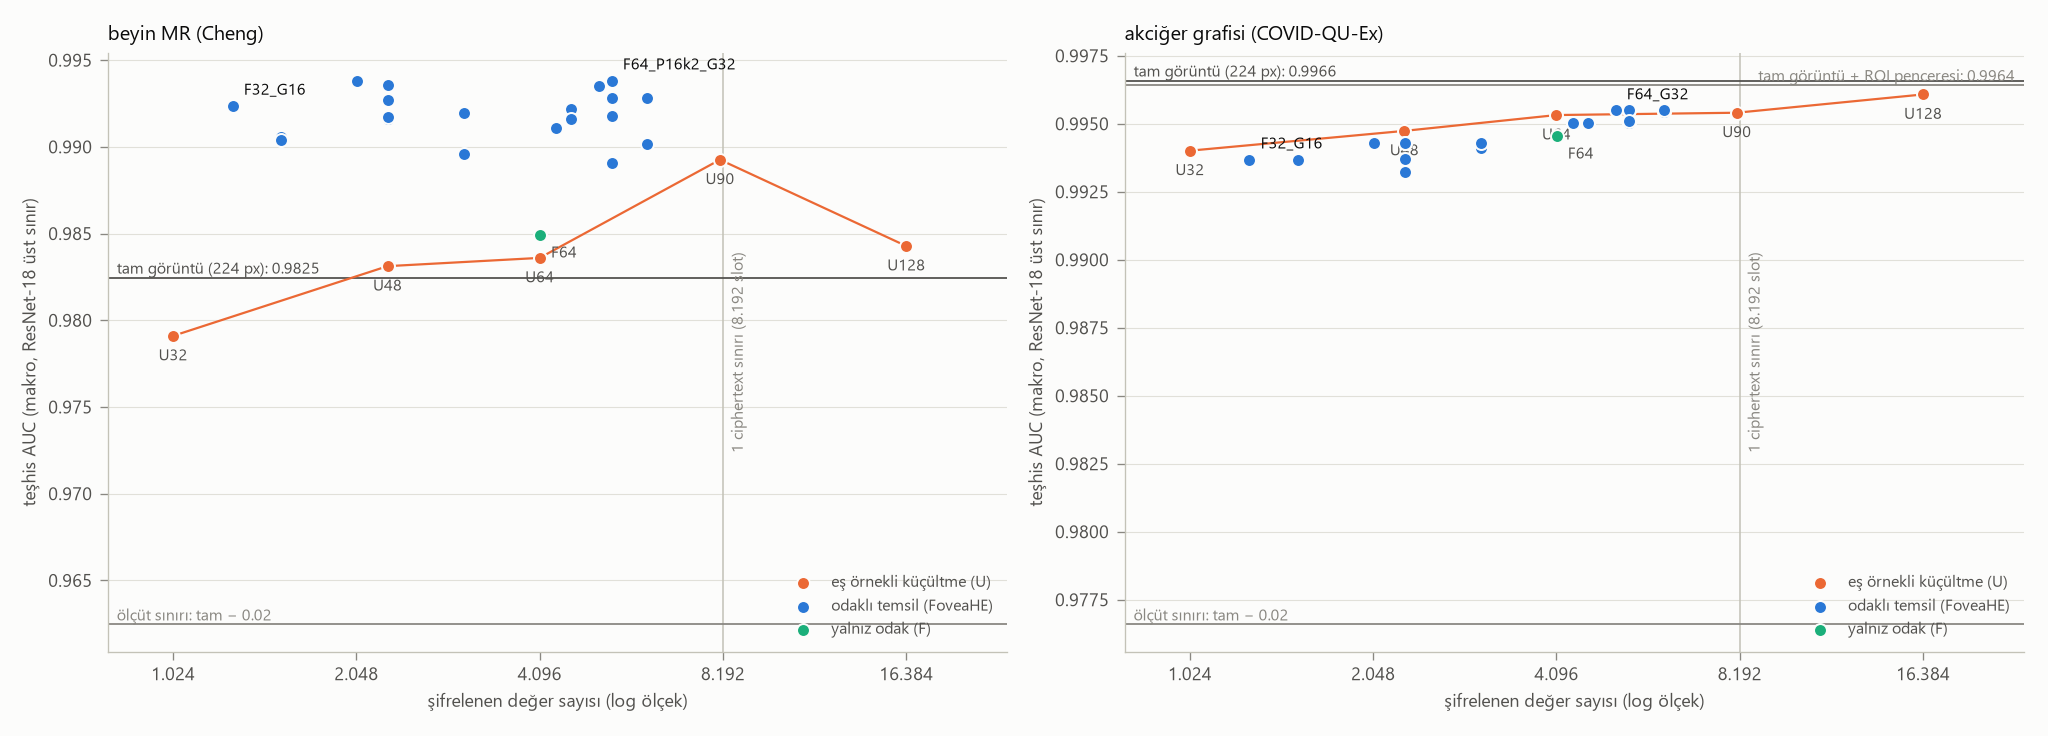
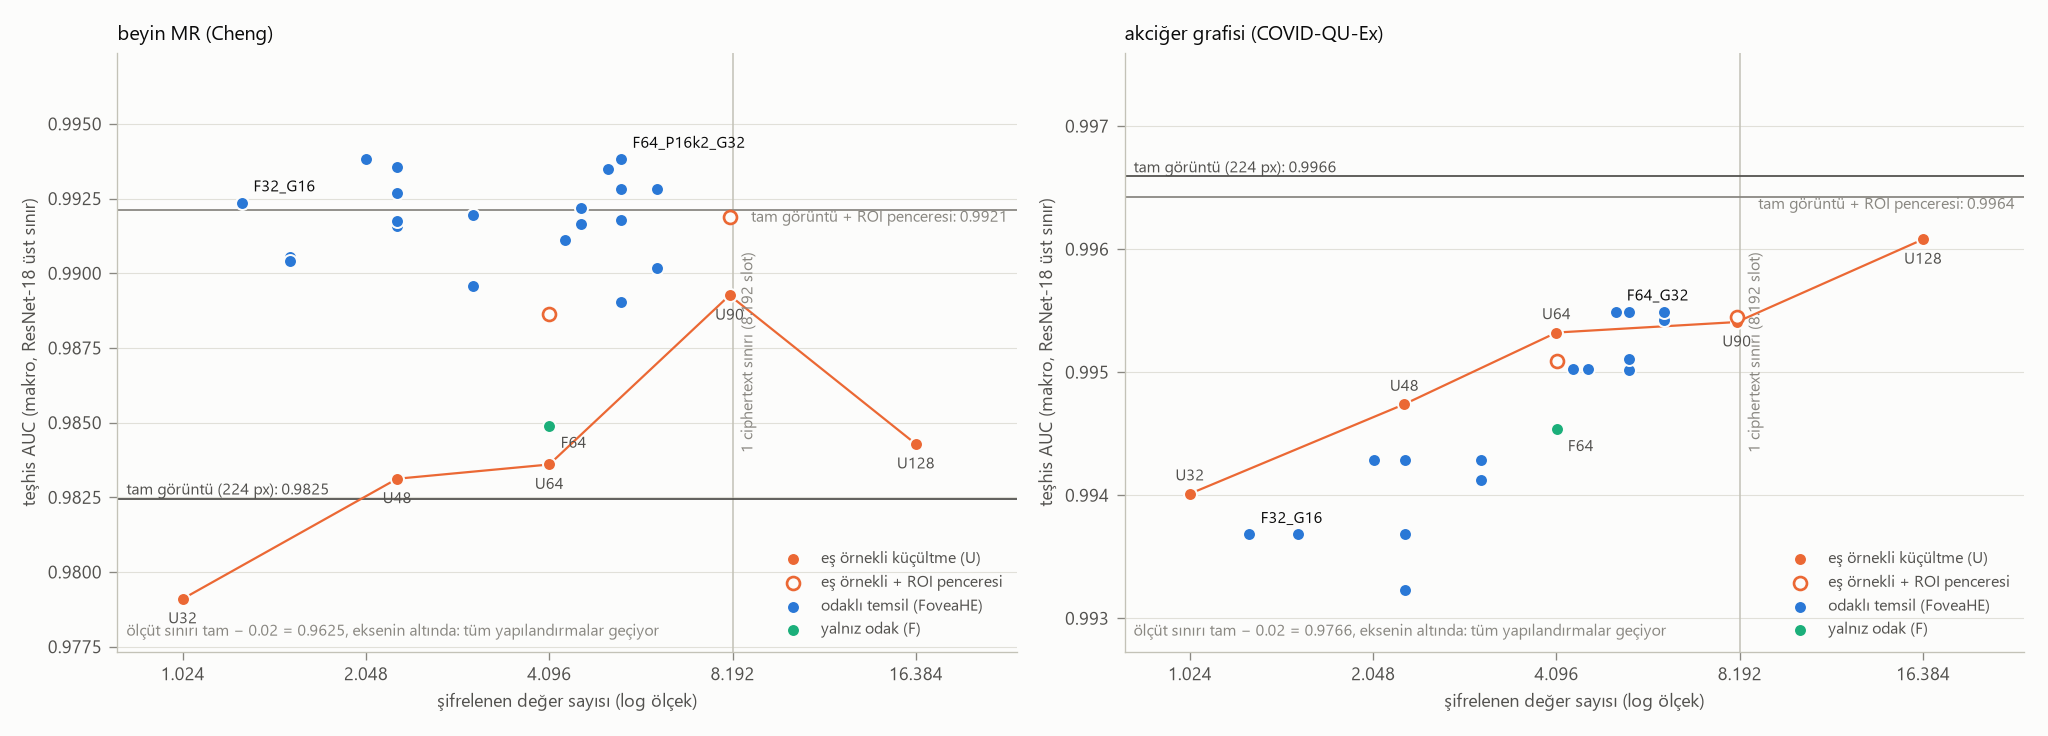
Cozum Adim 1: beyin ROI penceresi referanslari (tohum 0) ve guncel sekil
- tam_pencere 0.9921 (tam 0.9825), U64_pencere 0.9886 (U64 0.9836),
  U90_pencere 0.9919 (U90 0.9893): beyinde kazancin buyuk kismi ROI konum ve
  boyut bilgisinden
- ROI bilgisi iki tarafta da varken: F32_G16 (1283 deger) 0.9924 ~ U90_pencere
  (8103) 0.9919 ~ tam_pencere (50179) 0.9921; F64_G32 (5123) 0.9935 > U64_pencere
  (4099) 0.9886. Odaklamanin katkisi verimlilik: ayni bilgiye 6-40 kat az sifreli
  degerle, ROI bilgisini sizdirmadan. Tek tohum; guven araliklari ortusuyor.
- Sekil: y ekseni veriye gore, es ornekli + ROI penceresi ayri seri

diff --git a/roi-leakage/results/tables/cozum_bilgi.md b/roi-leakage/results/tables/cozum_bilgi.md
@@ -46,6 +46,7 @@
 | beyin MR (Cheng) | F32_P32k3_G32 | 3075 | 1 | 1 | 0.9896 |  | 0.9784 | 0.9964 | 0.9914 | -0.0071 | evet |
 | beyin MR (Cheng) | U64 | 4096 | 1 | 1 | 0.9836 |  | 0.9626 | 0.9954 | 0.9860 | -0.0011 | evet |
 | beyin MR (Cheng) | F64 | 4099 | 1 | 1 | 0.9849 |  | 0.9775 | 0.9913 | 0.9854 | -0.0024 | evet |
+| beyin MR (Cheng) | U64_pencere | 4099 | 1 | 1 | 0.9886 |  | 0.9735 | 0.9974 | 0.9904 | -0.0062 | evet |
 | beyin MR (Cheng) | F64_G16 | 4355 | 1 | 1 | 0.9911 |  | 0.9823 | 0.9966 | 0.9924 | -0.0086 | evet |
 | beyin MR (Cheng) | F64_P16k2_G16 | 4611 | 1 | 1 | 0.9922 |  | 0.9852 | 0.9968 | 0.9929 | -0.0097 | evet |
 | beyin MR (Cheng) | F64_P16k3_G16 | 4611 | 1 | 1 | 0.9916 |  | 0.9831 | 0.9970 | 0.9935 | -0.0092 | evet |
@@ -57,5 +58,7 @@
 | beyin MR (Cheng) | F64_P32k2_G32 | 6147 | 1 | 1 | 0.9902 |  | 0.9780 | 0.9973 | 0.9916 | -0.0077 | evet |
 | beyin MR (Cheng) | F64_P32k3_G32 | 6147 | 1 | 1 | 0.9928 |  | 0.9850 | 0.9978 | 0.9938 | -0.0104 | evet |
 | beyin MR (Cheng) | U90 | 8100 | 1 | 1 | 0.9893 |  | 0.9757 | 0.9971 | 0.9913 | -0.0068 | evet |
+| beyin MR (Cheng) | U90_pencere | 8103 | 1 | 1 | 0.9919 |  | 0.9804 | 0.9982 | 0.9936 | -0.0094 | evet |
 | beyin MR (Cheng) | U128 | 16384 | 2 | 1 | 0.9843 |  | 0.9636 | 0.9957 | 0.9874 | -0.0018 | evet |
 | beyin MR (Cheng) | tam | 50176 | 7 | 1 | 0.9825 |  | 0.9605 | 0.9954 | 0.9860 | 0.0000 | - |
+| beyin MR (Cheng) | tam_pencere | 50179 | 7 | 1 | 0.9921 |  | 0.9817 | 0.9979 | 0.9941 | -0.0097 | evet |
